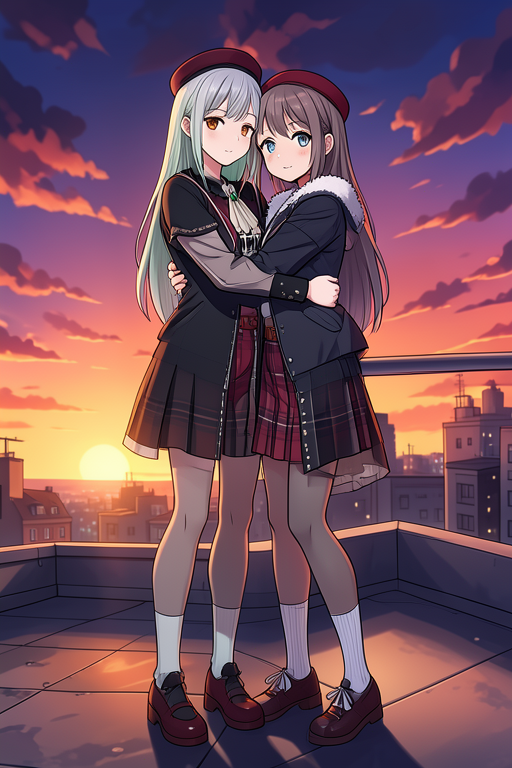
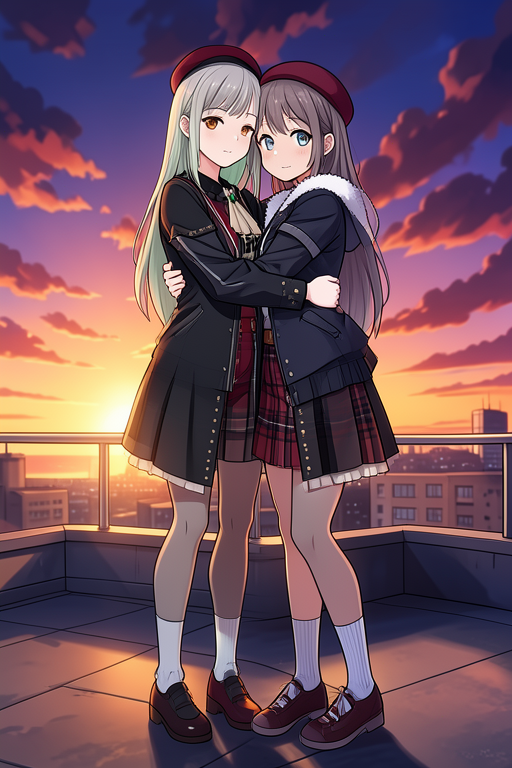
Reduce character overlap and remove ghosting artifacts
Adjusts spatial mask overlap to 8 pixels and removes redundant global scene conditioning to eliminate ghost character generation.

Replit-Commit-Author: Agent
Replit-Commit-Session-Id: 93f1d019-95a0-4049-84e3-6b3b1efc4c86
Replit-Commit-Checkpoint-Type: full_checkpoint
Replit-Commit-Event-Id: 6dd80d38-4dc8-4e6e-b69f-c28252909f57
Replit-Helium-Checkpoint-Created: true

diff --git a/workflow_adapter.py b/workflow_adapter.py
@@ -987,9 +987,10 @@ def build_multiref_workflow(
         #   MB1 (white, left half)  ──MaskComposite(add, x=0)──▶  ML (left mask)
         #   MB2 (white, right half) ──MaskComposite(add, x=right_x)─▶ MR (right mask)
         #
-        # 48-pixel overlap at the centre boundary so both conditionings are
-        # active in that zone.  Used by both hard and soft spatial paths.
-        overlap = 48
+        # 8-pixel overlap at the centre boundary — just enough to avoid a hard
+        # seam without letting one character's conditioning bleed into the other.
+        # (was 48px which caused Mortis features to bleed into Nina's half)
+        overlap = 8
         left_w  = half_w + overlap
         right_x = max(0, half_w - overlap)
         right_w = width - right_x
@@ -1061,24 +1062,15 @@ def build_multiref_workflow(
                 },
                 "_meta": {"title": "Hard mask char 1 → right half"},
             }
-            workflow["RCA0"] = {
-                "class_type": "ConditioningCombine",
-                "inputs": {"conditioning_1": ["SM0", 0], "conditioning_2": ["SM1", 0]},
-                "_meta": {"title": "Combine hard-masked conditionings"},
-            }
-            # Scene node covers the full canvas with no mask.  At strength 1.0 it
-            # tells the model to render "Mortis and Nina …" globally, which creates
-            # ghost duplicates on top of the already-masked character conditionings.
-            # Throttle it to 0.3 so it only guides background / atmosphere.
-            workflow["SC4"] = {
-                "class_type": "ConditioningSetAreaStrength",
-                "inputs": {"conditioning": ["4", 0], "strength": 0.3},
-                "_meta": {"title": "Scene at 0.3 — background only, no ghost chars"},
-            }
+            # Each character's text already contains the full scene context
+            # (f"{scene_prompt}. Left character — {char_name}: {app}").
+            # Adding the global scene node ("4") unmasked over the full canvas
+            # causes the model to render a second pair of characters (ghosts).
+            # Solution: drop it from the positive conditioning entirely.
             workflow["RCA"] = {
                 "class_type": "ConditioningCombine",
-                "inputs": {"conditioning_1": ["RCA0", 0], "conditioning_2": ["SC4", 0]},
-                "_meta": {"title": "Add scene (reduced) to hard-masked chars"},
+                "inputs": {"conditioning_1": ["SM0", 0], "conditioning_2": ["SM1", 0]},
+                "_meta": {"title": "Combine hard-masked conditionings (no ghost scene)"},
             }
             workflow["RCN"] = {
                 "class_type": "ConditioningCombine",
@@ -1090,7 +1082,7 @@ def build_multiref_workflow(
             }
             final_pos: List = ["RCA", 0]
             final_neg: List = ["RCN", 0]
-            print("[MultiRef] 2-char hard spatial masks + global scene (side-by-side mode)")
+            print("[MultiRef] 2-char hard spatial masks, no ghost-scene, 8px overlap")
 
         else:
             # ── Soft spatial masks (contact_pose: hugging / touching) ─────────
